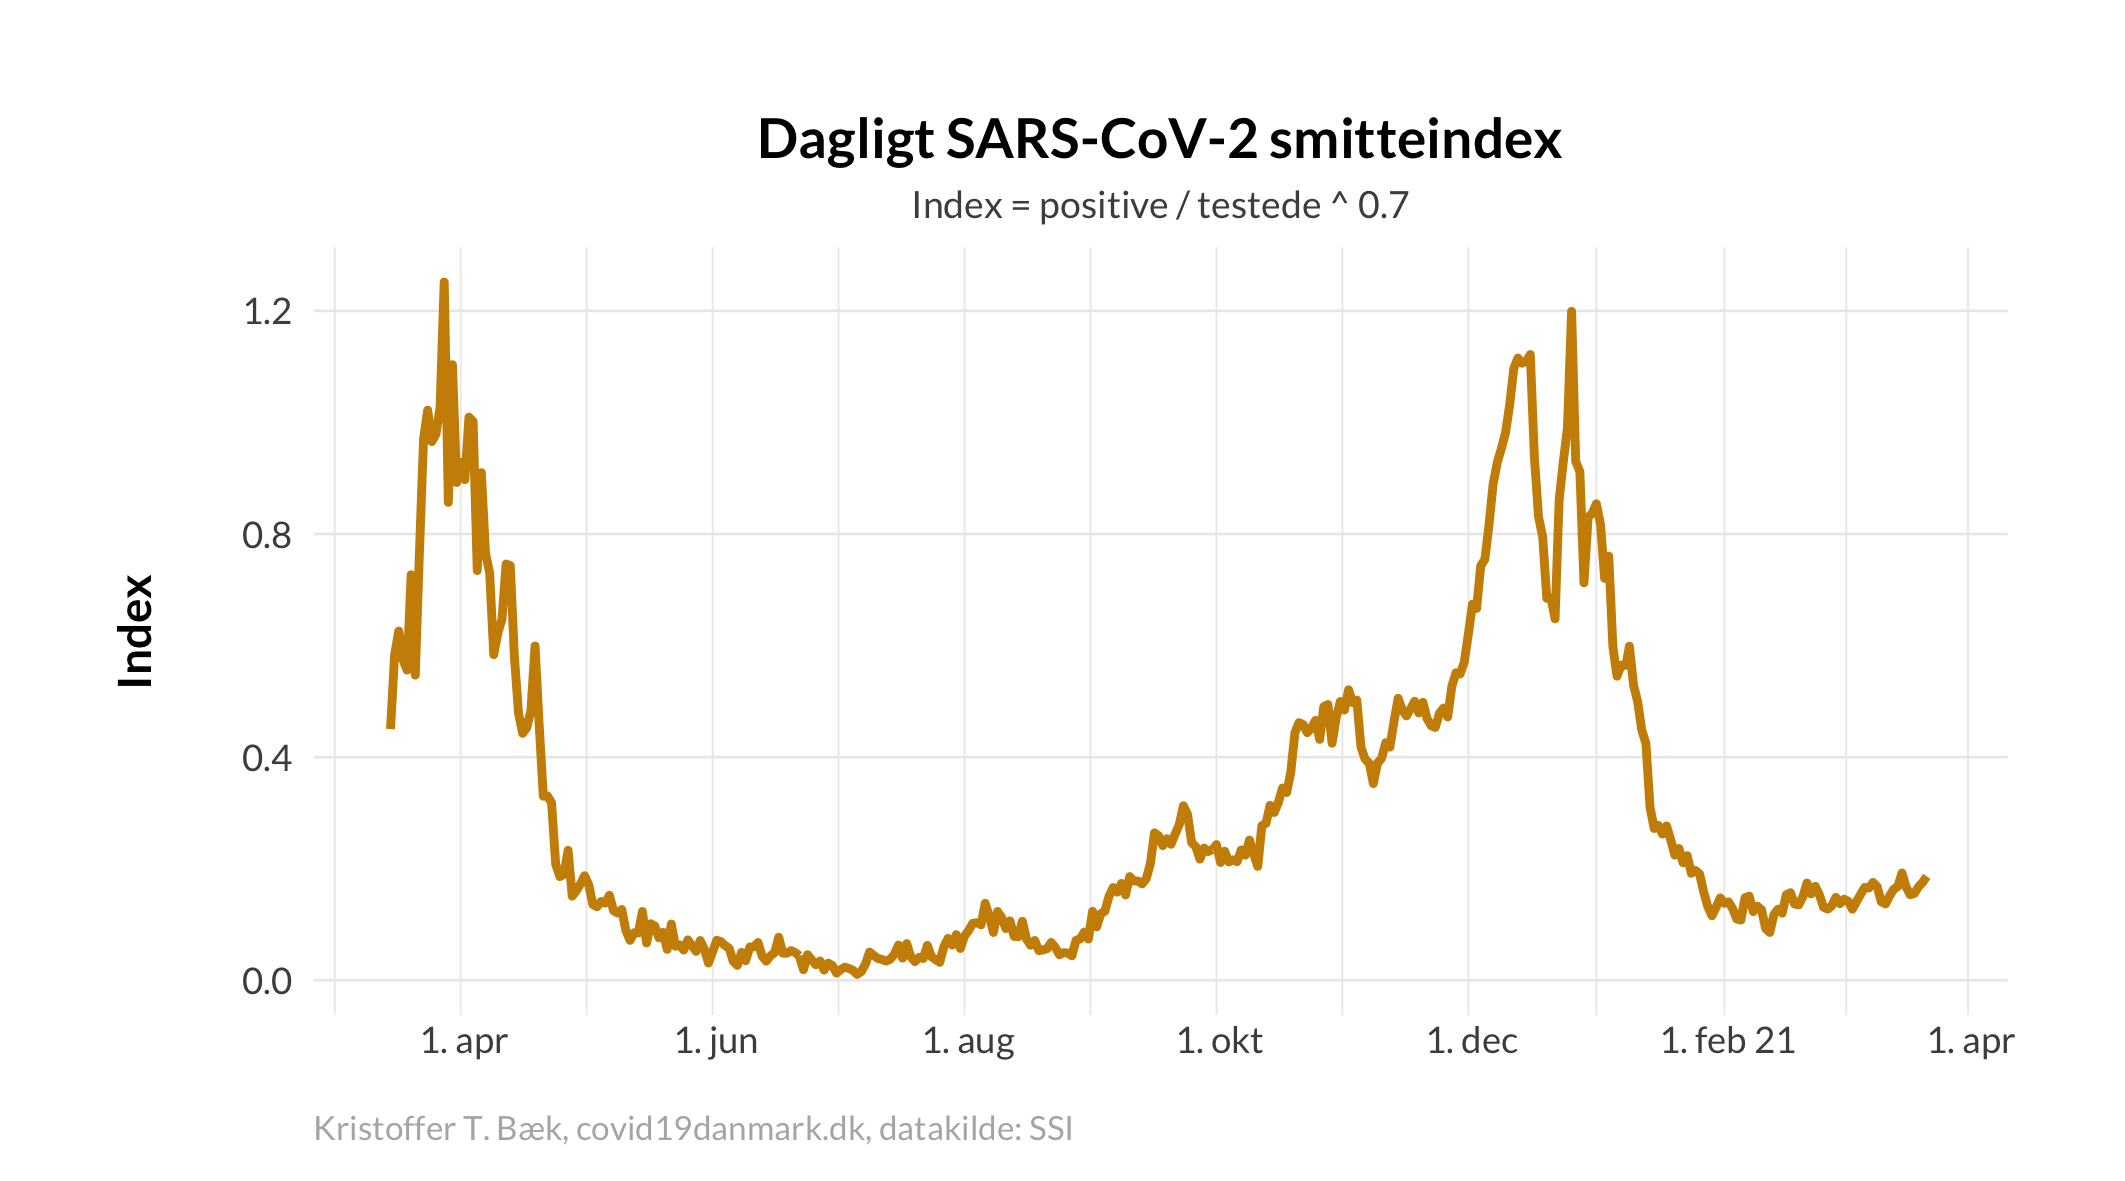
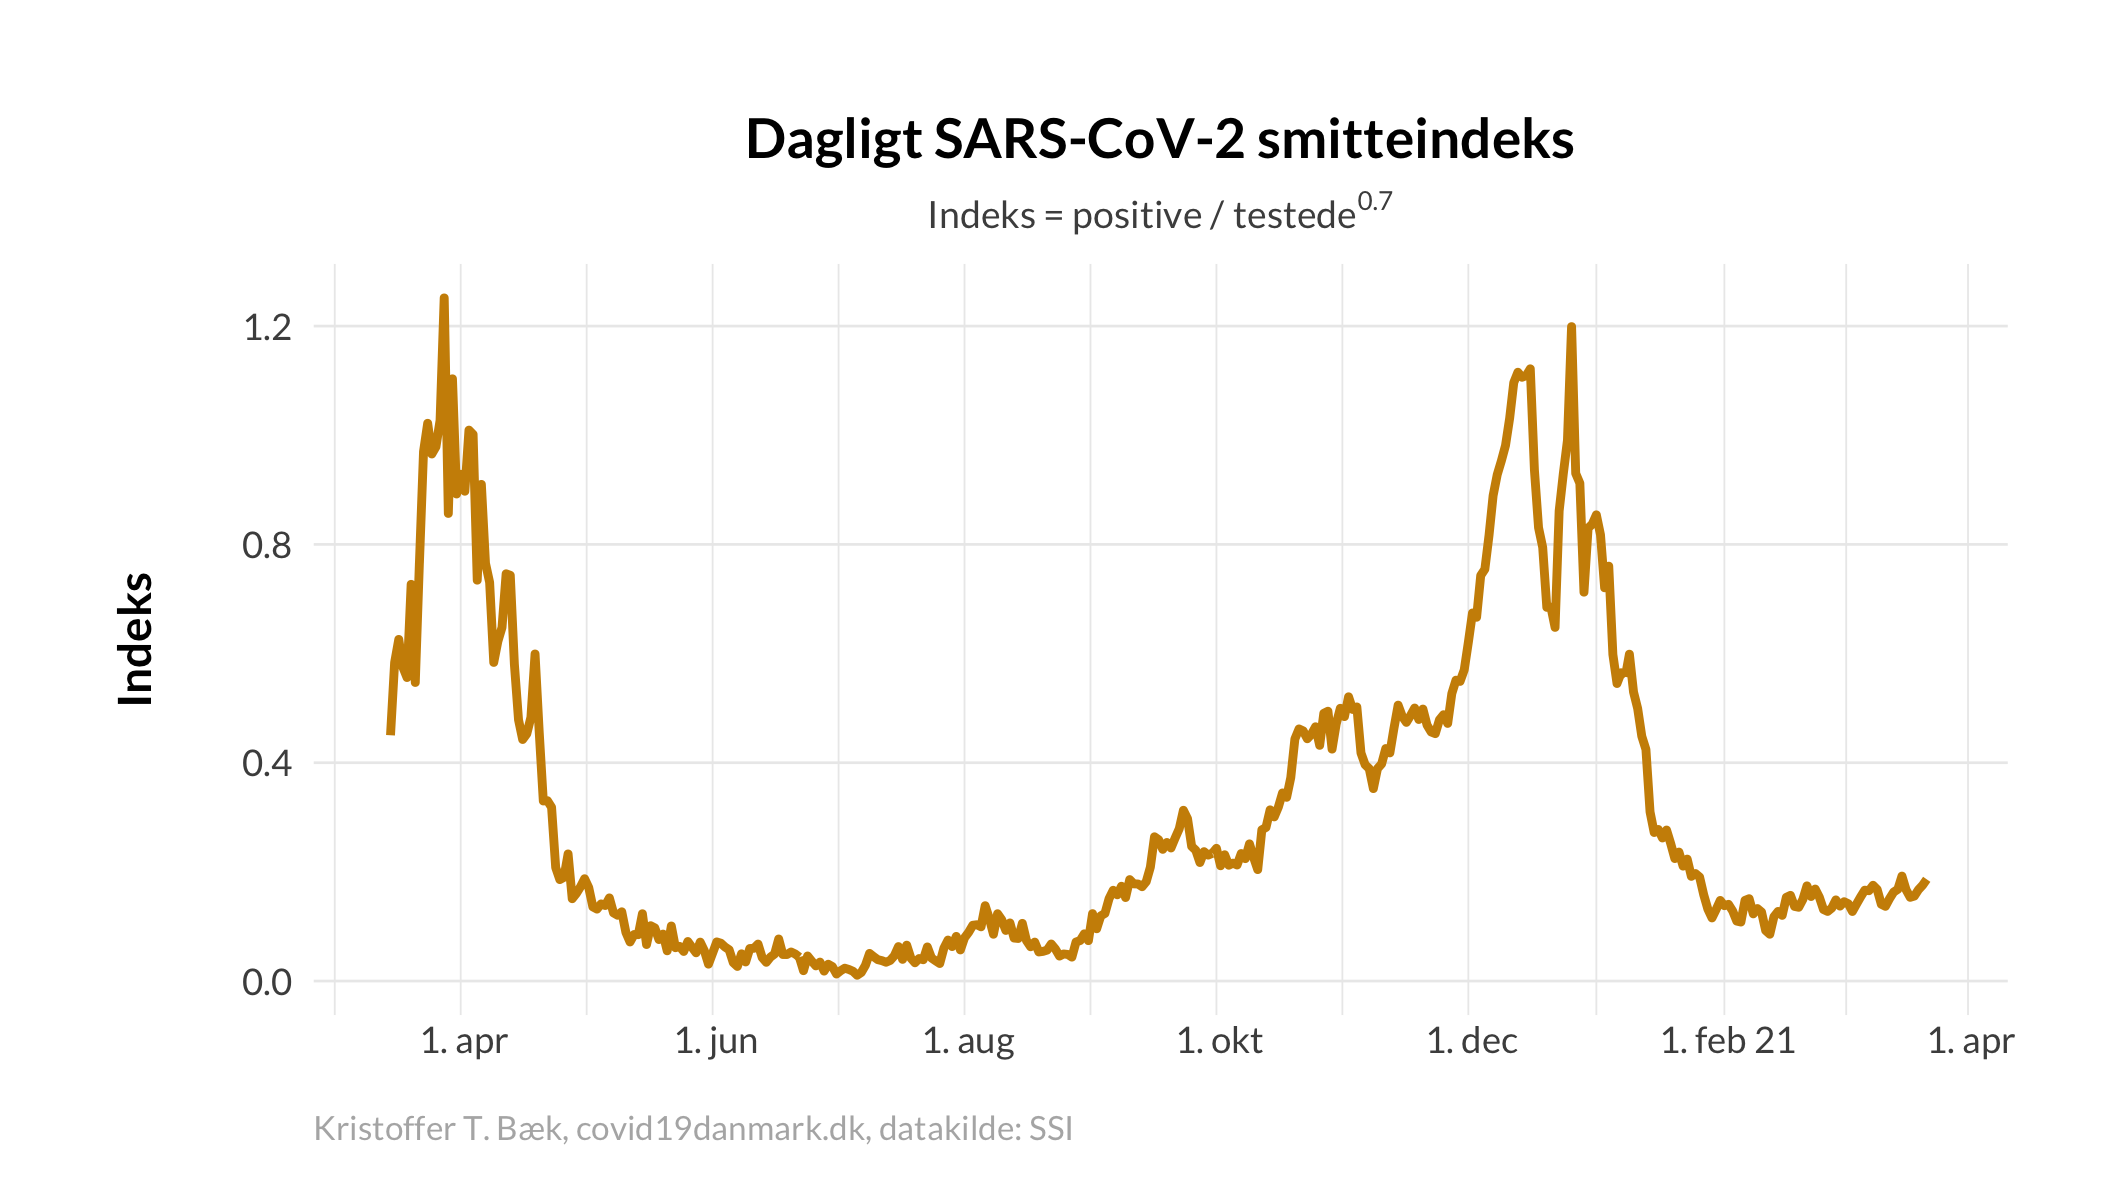
Update plots

diff --git a/index.md b/index.md
@@ -55,7 +55,7 @@ Plottet viser procentdelen af nye positivt testede personer ifht. hvor mange der
 ![](/figures/ntl_pct_2.png)
 
 ### Dagligt smitteindeks
-Plottet viser det daglige smitteindeks, som er en måde at vise antallet af positive justeret for antallet af testede. I modsætning til positivprocenten antager metoden, at der ikke er et 1:1 forhold mellem antal positive og antal testede. Når man tester flere antages det, at man i højere grad tester personer med lavere sandsynlighed for at være smittede. Metoden benyttes af SSI.
+Plottet viser det daglige smitteindeks, som er en måde at vise antallet af positive justeret for antallet af testede. I modsætning til positivprocenten antager metoden, at der ikke er et 1:1 forhold mellem antal positive og antal testede: Når man tester flere, antages det at man i højere grad tester personer med lavere sandsynlighed for at være smittede. Metoden benyttes af SSI.
 
 ``SSI datasæt: 'Test_pos_over_time'``
 
